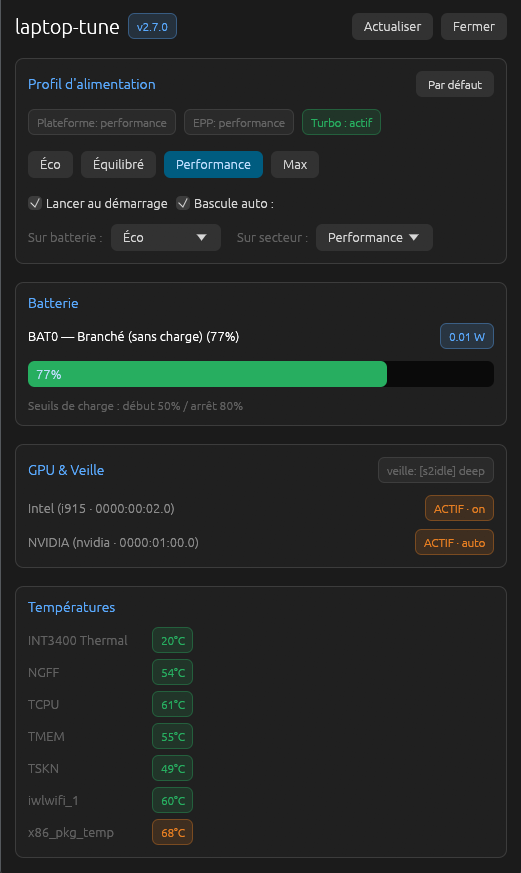
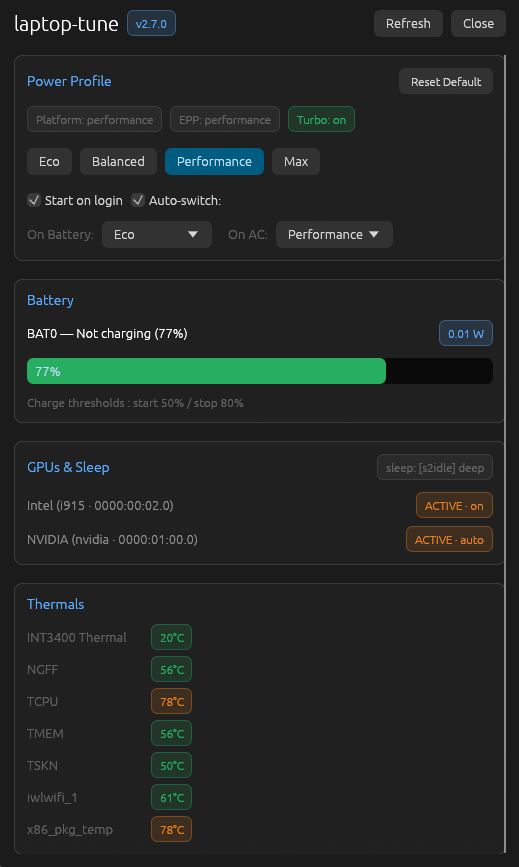
feat(v2.7.1): add English/French screenshots, resize images, and disable MangoHud/dGPU in GUI

diff --git a/src/main.rs b/src/main.rs
@@ -130,11 +130,20 @@ fn cmd_reset(dry_run: bool) {
     println!("Done.");
 }
 
+fn force_igpu_and_disable_overlays() {
+    env::set_var("MANGOHUD", "0");
+    env::set_var("DISABLE_MANGOHUD", "1");
+    env::set_var("__NV_PRIME_RENDER_OFFLOAD", "0");
+    env::set_var("__GLX_VENDOR_LIBRARY_NAME", "mesa");
+    env::set_var("VK_LOADER_DRIVERS_DISABLE", "*nvidia*");
+}
+
 fn main() {
     let args: Vec<String> = env::args().collect();
     match args.get(1).map(String::as_str) {
         Some("status") | None => cmd_status(),
         Some("gui") => {
+            force_igpu_and_disable_overlays();
             if args.iter().any(|a| a == "--tray") {
                 tray::run_tray_host();
             } else {

diff --git a/README.md b/README.md
@@ -5,9 +5,9 @@
 Rust CLI, native desktop GUI, and event-driven daemon for auditing and tuning Linux laptops: hybrid GPU runtime power management (Intel / AMD / NVIDIA), CPU power profiles, PCIe ASPM, sleep states, thermals, and battery charge thresholds.
 
 <p align="center">
-  <img src="docs/assets/gui.png" alt="laptop-tune desktop GUI" width="440" />
+  <img src="https://raw.githubusercontent.com/HmFlashy/laptop-tune/main/docs/assets/gui.png" alt="laptop-tune desktop GUI" width="280" />
   &nbsp;&nbsp;&nbsp;
-  <img src="docs/assets/tray-menu.png" alt="laptop-tune system tray menu" width="180" />
+  <img src="https://raw.githubusercontent.com/HmFlashy/laptop-tune/main/docs/assets/tray-menu.png" alt="laptop-tune system tray menu" width="115" />
 </p>
 
 ## Features

diff --git a/docs/README.ja.md b/docs/README.ja.md
@@ -5,9 +5,9 @@
 Linux ノート PC 向けの Rust 製 CLI・ネイティブ GUI・イベント駆動デーモン：ハイブリッド GPU のランタイム電源管理（Intel / AMD / NVIDIA）、CPU 電源プロファイル、PCIe ASPM、スリープ状態、温度モニター、バッテリー充電しきい値を一括管理します。
 
 <p align="center">
-  <img src="assets/gui.png" alt="laptop-tune GUI" width="440" />
+  <img src="assets/gui.png" alt="laptop-tune GUI" width="280" />
   &nbsp;&nbsp;&nbsp;
-  <img src="assets/tray-menu.png" alt="laptop-tune トレイメニュー" width="180" />
+  <img src="assets/tray-menu.png" alt="laptop-tune トレイメニュー" width="115" />
 </p>
 
 ## 主な機能

diff --git a/docs/README.fr.md b/docs/README.fr.md
@@ -5,9 +5,9 @@
 CLI, interface graphique native et démon événementiel en Rust pour auditer et optimiser les PC portables sous Linux : gestion d'énergie des GPU hybrides (Intel / AMD / NVIDIA), profils CPU, PCIe ASPM, états de veille, températures et seuils de charge batterie.
 
 <p align="center">
-  <img src="assets/gui.png" alt="Interface graphique laptop-tune" width="440" />
+  <img src="assets/gui.fr.png" alt="Interface graphique laptop-tune" width="280" />
   &nbsp;&nbsp;&nbsp;
-  <img src="assets/tray-menu.png" alt="Menu de la barre des tâches laptop-tune" width="180" />
+  <img src="assets/tray-menu.fr.png" alt="Menu de la barre des tâches laptop-tune" width="115" />
 </p>
 
 ## Fonctionnalités

diff --git a/docs/README.zh.md b/docs/README.zh.md
@@ -5,9 +5,9 @@
 基于 Rust 编写的 Linux 笔记本电源与性能调优工具（含命令行、原生桌面 GUI 与事件驱动守护进程）：支持混合显卡运行时电源管理（Intel / AMD / NVIDIA）、CPU 性能模式、PCIe ASPM、休眠状态、温度监控以及电池充电阈值管理。
 
 <p align="center">
-  <img src="assets/gui.png" alt="laptop-tune 桌面面板" width="440" />
+  <img src="assets/gui.png" alt="laptop-tune 桌面面板" width="280" />
   &nbsp;&nbsp;&nbsp;
-  <img src="assets/tray-menu.png" alt="laptop-tune 托盘菜单" width="180" />
+  <img src="assets/tray-menu.png" alt="laptop-tune 托盘菜单" width="115" />
 </p>
 
 ## 功能特性

diff --git a/docs/README.es.md b/docs/README.es.md
@@ -5,9 +5,9 @@
 CLI, interfaz gráfica nativa y demonio basado en eventos en Rust para auditar y optimizar portátiles en Linux: gestión de energía de GPU híbridas (Intel / AMD / NVIDIA), perfiles de CPU, PCIe ASPM, estados de suspensión, temperaturas y umbrales de carga de batería.
 
 <p align="center">
-  <img src="assets/gui.png" alt="laptop-tune GUI" width="440" />
+  <img src="assets/gui.png" alt="laptop-tune GUI" width="280" />
   &nbsp;&nbsp;&nbsp;
-  <img src="assets/tray-menu.png" alt="laptop-tune tray menu" width="180" />
+  <img src="assets/tray-menu.png" alt="laptop-tune tray menu" width="115" />
 </p>
 
 ## Características

diff --git a/docs/README.de.md b/docs/README.de.md
@@ -5,9 +5,9 @@
 Rust-CLI, native Desktop-GUI und ereignisgesteuerter Daemon zur Analyse und Optimierung von Linux-Laptops: Hybrid-GPU-Energiemanagement (Intel / AMD / NVIDIA), CPU-Energieprofile, PCIe ASPM, Standby-Modi, Temperaturen und Akku-Ladeschwellen.
 
 <p align="center">
-  <img src="assets/gui.png" alt="laptop-tune GUI" width="440" />
+  <img src="assets/gui.png" alt="laptop-tune GUI" width="280" />
   &nbsp;&nbsp;&nbsp;
-  <img src="assets/tray-menu.png" alt="laptop-tune Tray-Menü" width="180" />
+  <img src="assets/tray-menu.png" alt="laptop-tune Tray-Menü" width="115" />
 </p>
 
 ## Funktionen
